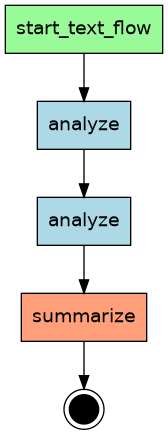
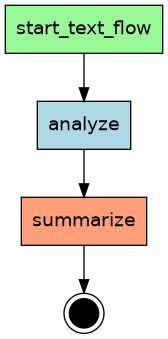
fix(lab): skip gateway auto-registration when not using projected volumes [vppe]

diff --git a/src/asya-lab/asya_lab/k_cli.py b/src/asya-lab/asya_lab/k_cli.py
@@ -239,8 +239,11 @@ def _register_flow_with_gateway(runner: KubeRunner, flow_name: str) -> None:
     if vol_idx is None:
         return
 
-    # Count existing sources to append at the end
-    sources = volumes[vol_idx].get("projected", {}).get("sources", [])
+    # Only works with projected volumes (requires chart change)
+    if "projected" not in volumes[vol_idx]:
+        return
+
+    sources = volumes[vol_idx]["projected"].get("sources", [])
     source_idx = len(sources)
 
     patch = [
@@ -262,8 +265,6 @@ def _register_flow_with_gateway(runner: KubeRunner, flow_name: str) -> None:
     )
     if patch_result.returncode == 0:
         click.echo(f"[+] Registered flow '{flow_name}' with gateway (projected volume)")
-    else:
-        click.echo(f"[!] Could not register flow with gateway: {patch_result.stderr.strip()}", err=True)
 
 
 @click.command()

diff --git a/examples/demo-skaffold/compiled/text-flow/code/routers.py b/examples/demo-skaffold/compiled/text-flow/code/routers.py
@@ -17,7 +17,6 @@ async def start_text_flow(payload: dict):
     """Entrypoint for flow 'text_flow'"""
     _next = []
     _next.append(resolve("analyze"))
-    _next.append(resolve("analyze"))
     _next.append(resolve("summarize"))
     yield "SET", ".route.next[:0]", _next
     yield payload

diff --git a/examples/demo-skaffold/STEPS.md b/examples/demo-skaffold/STEPS.md
@@ -12,7 +12,11 @@ compile, build, expose, deploy, test, observe.
 
 ```bash
 # Set your registry (Artifact Registry, GCR, etc.)
-export REGISTRY=europe-west1-docker.pkg.dev/YOUR_PROJECT/YOUR_REPO
+export GCP_PROJECT=foodsci-img-gen-dev-1407-1448
+export REGION=europe-west1
+export REPO=asya-demo
+export REGISTRY=${REGION}-docker.pkg.dev/${GCP_PROJECT}/${REPO}
+
 
 # # Install asya CLI
 # uv pip install git+https://github.com/deliveryhero/asya.git#subdirectory=src/asya-lab

diff --git a/examples/demo-skaffold/DEMO-LOG.md b/examples/demo-skaffold/DEMO-LOG.md
@@ -76,7 +76,7 @@ After initial platform install, apply these optimizations for demo speed:
 ```bash
 export CTX=gke_foodsci-img-gen-dev-1407-1448_europe-west1_asya-demo
 export PROJECT=foodsci-img-gen-dev-1407-1448
-export ASYA_VERSION=0.5.11
+export ASYA_VEdRSION=0.5.11
 
 # 1. Crossplane poll interval: 10s instead of default 1m
 kubectl --context $CTX patch deployment crossplane -n crossplane-system --type=json \
